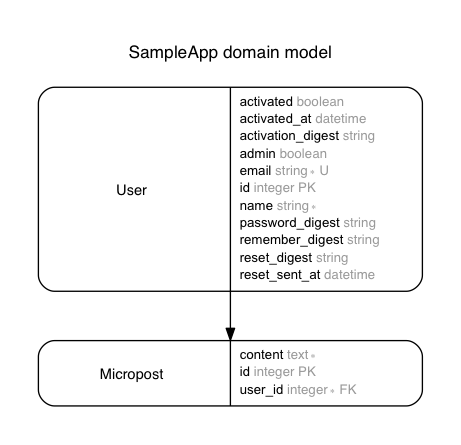
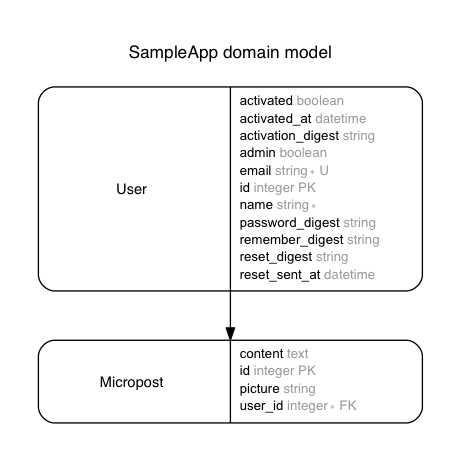
Chapter11終了

diff --git a/app/models/micropost.rb b/app/models/micropost.rb
@@ -7,9 +7,13 @@
 #  user_id    :integer
 #  created_at :datetime         not null
 #  updated_at :datetime         not null
+#  picture    :string
 #
 
 class Micropost < ActiveRecord::Base
+
+  mount_uploader :picture, PictureUploader
+
   belongs_to :user
 
   default_scope -> { order(created_at: :desc) }
@@ -18,4 +22,13 @@ class Micropost < ActiveRecord::Base
 
   validates :content, #presence: true,
                       length: { maximum: 140 }
+  validate :picture_size
+
+  private
+
+    def picture_size
+      if picture.size > 5.megabytes
+        errors.add(:picture, 'should be less than 5MB')
+      end
+    end
 end

diff --git a/db/schema.rb b/db/schema.rb
@@ -11,13 +11,14 @@
 #
 # It's strongly recommended that you check this file into your version control system.
 
-ActiveRecord::Schema.define(version: 20160908120022) do
+ActiveRecord::Schema.define(version: 20160910042925) do
 
   create_table "microposts", force: :cascade do |t|
     t.text     "content"
     t.integer  "user_id"
     t.datetime "created_at", null: false
     t.datetime "updated_at", null: false
+    t.string   "picture"
   end
 
   add_index "microposts", ["user_id", "created_at"], name: "index_microposts_on_user_id_and_created_at"

diff --git a/app/uploaders/picture_uploader.rb b/app/uploaders/picture_uploader.rb
@@ -1,0 +1,16 @@
+# encoding: utf-8
+
+class PictureUploader < CarrierWave::Uploader::Base
+  include CarrierWave::MiniMagick
+  process resize_to_limit: [400, 400]
+  
+  storage :file
+
+  def store_dir
+    "uploads/#{model.class.to_s.underscore}/#{mounted_as}/#{model.id}"
+  end
+
+  def extension_white_list
+    %w(jpg jpeg gif png)
+  end
+end

diff --git a/app/controllers/microposts_controller.rb b/app/controllers/microposts_controller.rb
@@ -21,7 +21,7 @@ class MicropostsController < ApplicationController
   private
 
     def micropost_params
-      params.require(:micropost).permit(:content)
+      params.require(:micropost).permit(:content, :picture)
     end
 
     def correct_user

diff --git a/test/models/micropost_test.rb b/test/models/micropost_test.rb
@@ -7,6 +7,7 @@
 #  user_id    :integer
 #  created_at :datetime         not null
 #  updated_at :datetime         not null
+#  picture    :string
 #
 
 require 'test_helper'

diff --git a/db/migrate/20160910042925_add_picture_to_microposts.rb b/db/migrate/20160910042925_add_picture_to_microposts.rb
@@ -1,0 +1,5 @@
+class AddPictureToMicroposts < ActiveRecord::Migration
+  def change
+    add_column :microposts, :picture, :string
+  end
+end
